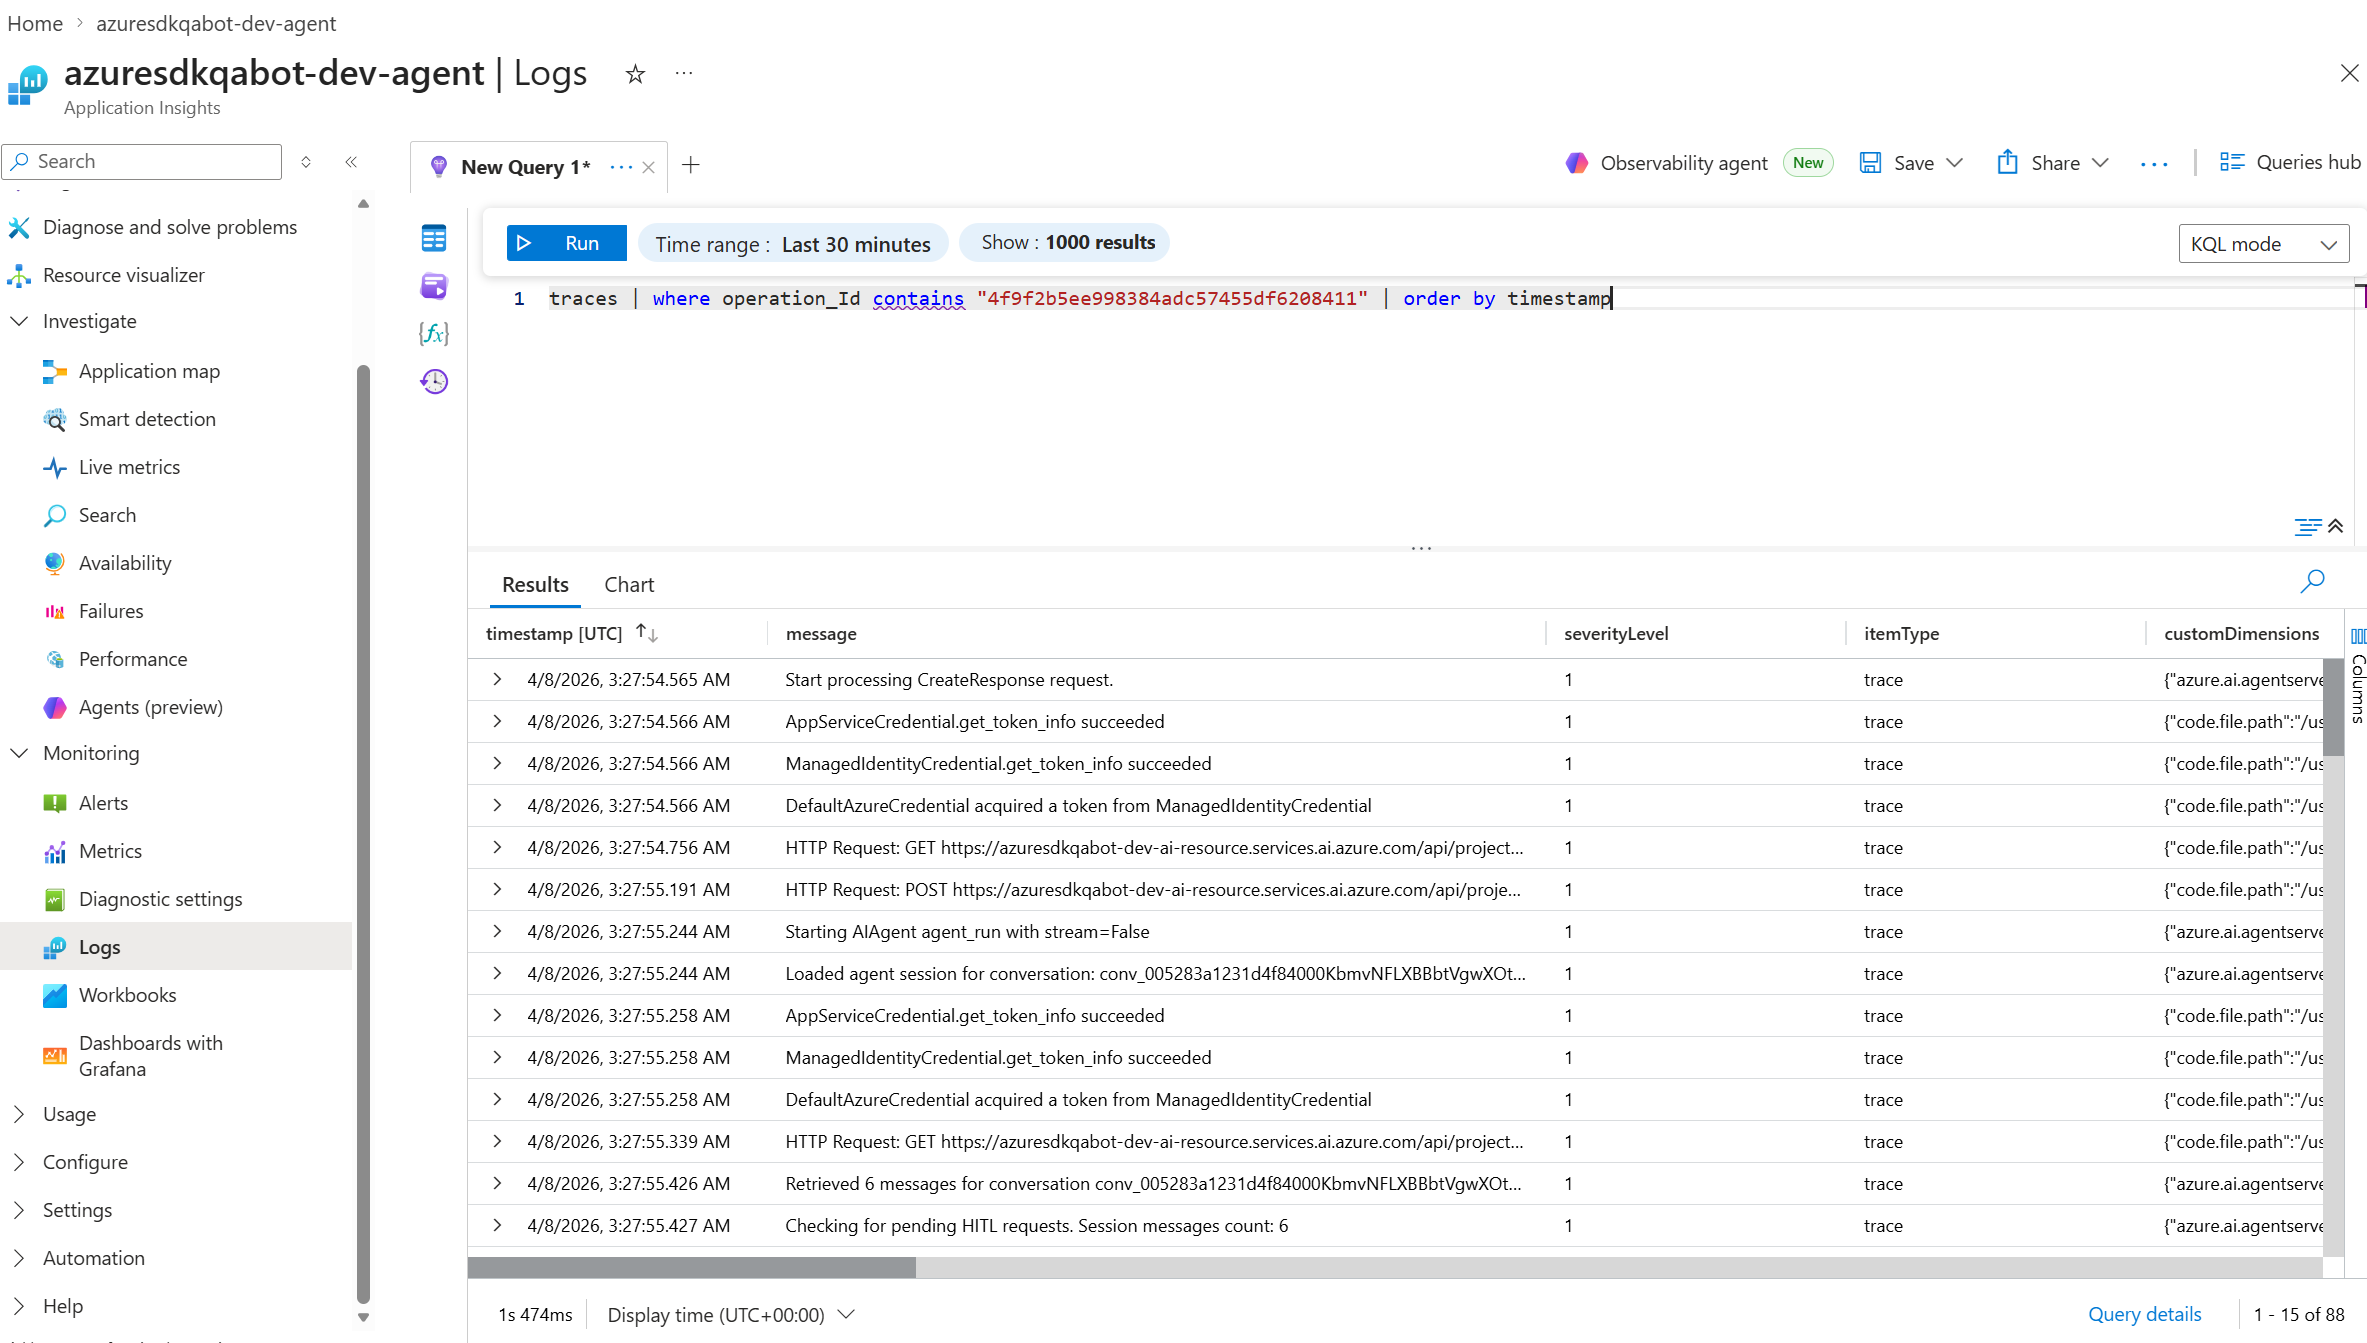
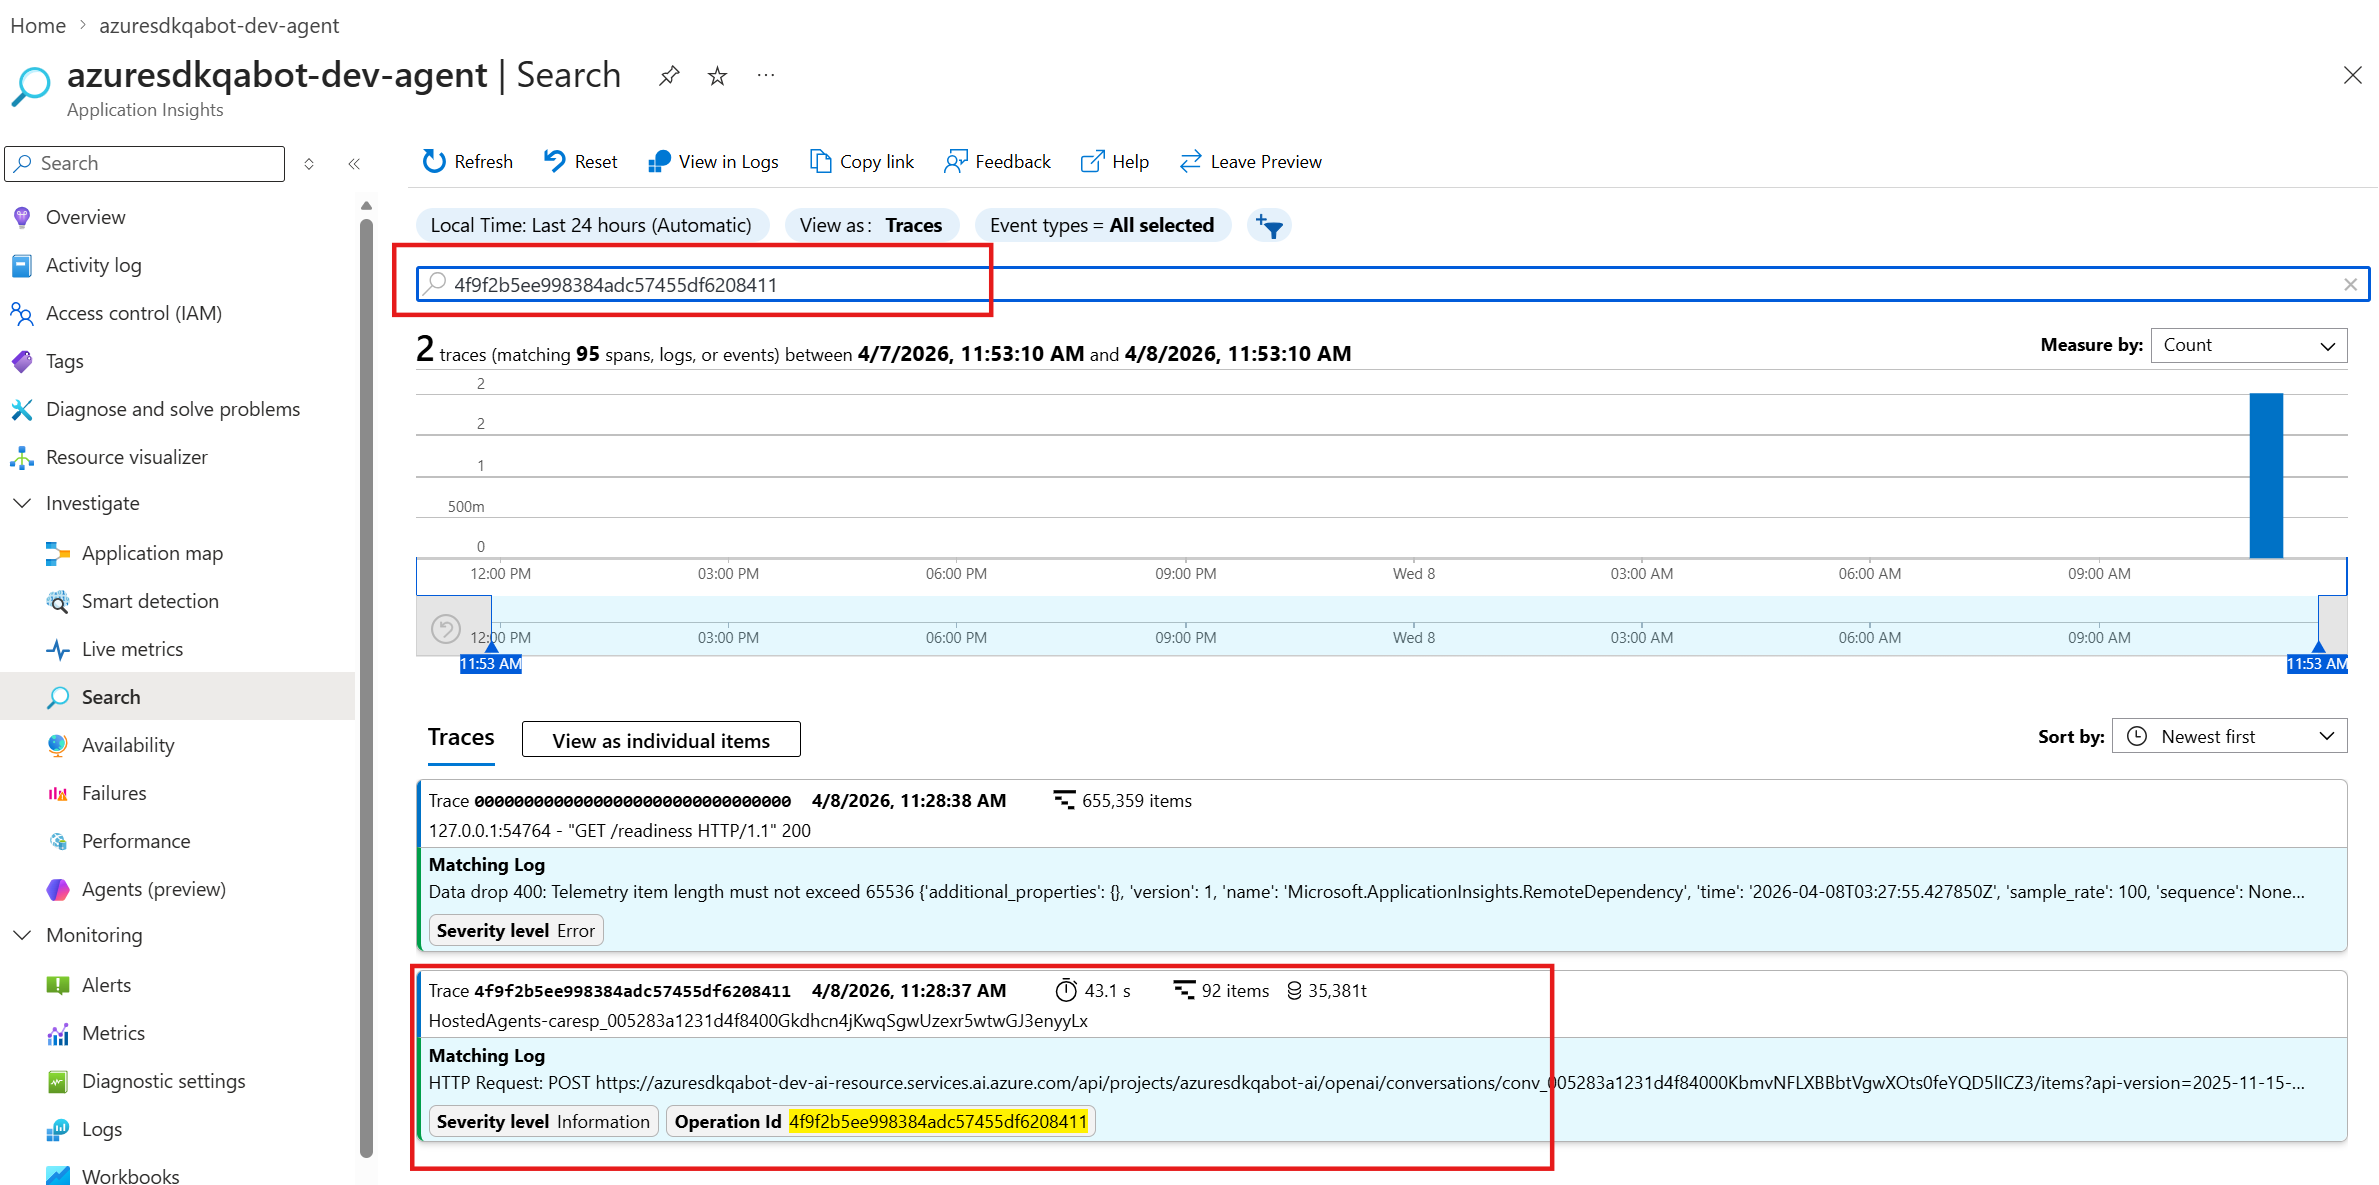
update readme

diff --git a/tools/sdk-ai-bots/azure-sdk-qa-bot-agent/README.md b/tools/sdk-ai-bots/azure-sdk-qa-bot-agent/README.md
@@ -147,25 +147,13 @@ Click the **Trace ID** link to open the trace detail view. This shows the full s
 
 ### 4. Investigate Detailed Logs in Application Insights
 
-To see the complete Python-level logs, copy the **Trace ID** from step 2 and query the Application Insights **Logs** blade:
+To see the complete Python-level logs, copy the **Trace ID** from step 2 and query the Application Insights **Investigate/** blade:
 
-```kql
-traces
-| where operation_Id contains "<trace_id>"
-| order by timestamp
-```
+![Application Insights search results](images/tracing_step4_app_insights_logs.png)
 
-For example:
+Click the trace, it returns all log records for that request — credential acquisition, agent session loading, conversation retrieval, tool calls, and any custom log messages — in chronological order.
 
-```kql
-traces
-| where operation_Id contains "4f9f2b5ee998384adc57455df6208411"
-| order by timestamp
-```
-
-This returns all log records for that request — credential acquisition, agent session loading, conversation retrieval, tool calls, and any custom log messages — in chronological order.
-
-![Application Insights KQL query results](images/tracing_step4_app_insights_logs.png)
+![Application Insights span](images/tracing_step5_app_insights_span.png)
 
 ## Project Structure
 